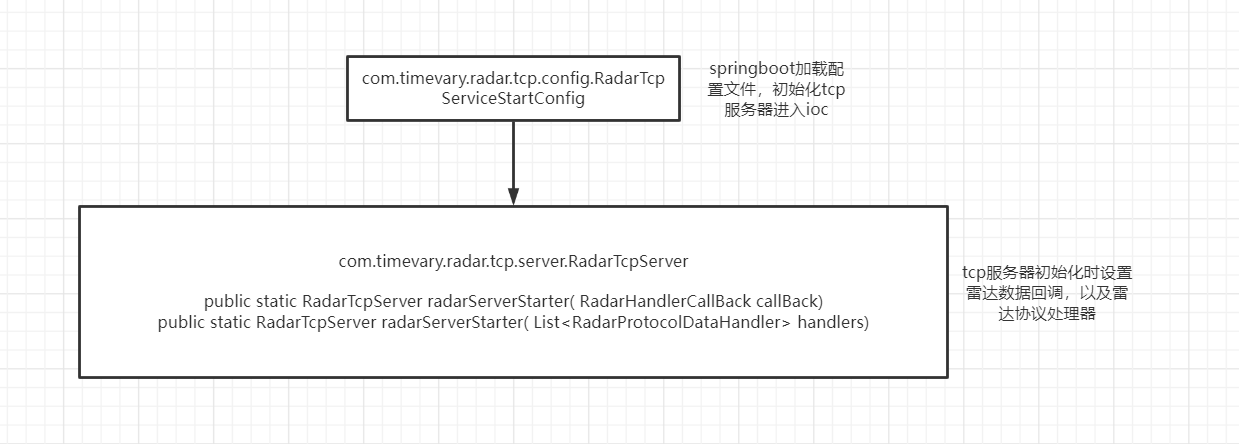
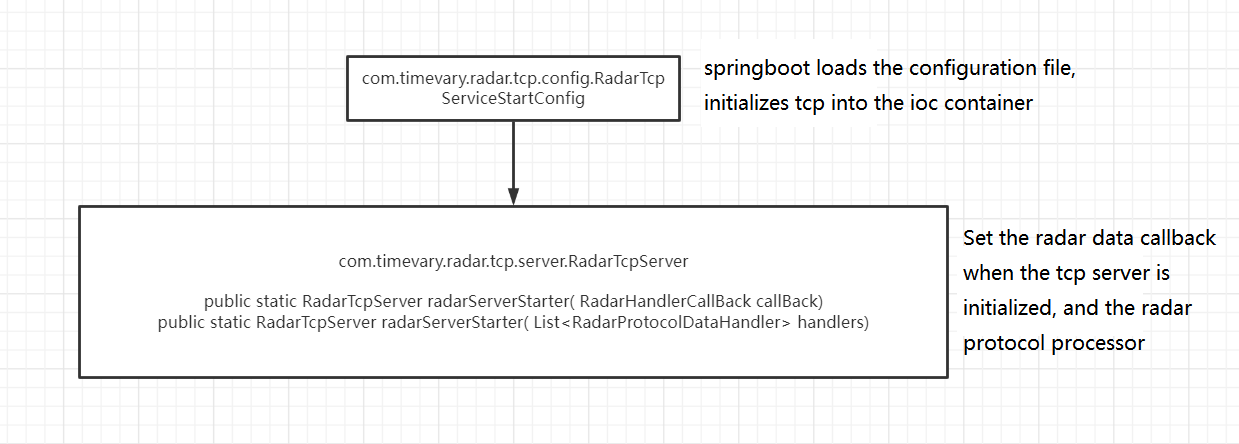
update doc en

diff --git a/src/main/java/com/timevary/radar/tcp/service/fromRadar/callback/RadarReportOrAlertCallBack.java b/src/main/java/com/timevary/radar/tcp/service/fromRadar/callback/RadarReportOrAlertCallBack.java
@@ -66,7 +66,6 @@ public class RadarReportOrAlertCallBack implements RadarHandlerCallBack {
             } finally {
                 byteBuf.release();
             }
-
             radarHandlerCallBackForConsumer.callBack(callBackDto);
         } else {
             throw new RuntimeException("No custom callback");

diff --git a/src/main/java/com/timevary/radar/tcp/domain/dto/CallBackDto.java b/src/main/java/com/timevary/radar/tcp/domain/dto/CallBackDto.java
@@ -5,7 +5,7 @@ import lombok.AllArgsConstructor;
 import lombok.Data;
 import lombok.NoArgsConstructor;
 
-/**
+/**=
  * @author ：ywb
  * @date ：Created in 2022/12/6 9:18
  * @modified By：

diff --git a/sdk-document-en/sdk-document-en.md b/sdk-document-en/sdk-document-en.md
@@ -1,293 +1,40 @@
-## 一，schema analysis 
+## Ⅰ， quick start
 
-### 1， sdk startup flowchart
-
-https://www.processon.com/diagraming/6290877c5653bb788c7a3617
-
-![](img/image-20220527162121324.png)
-
-### 2，Radar server interaction flow chart
-
-https://www.processon.com/diagraming/6290877c5653bb788c7a3617
-
-![](img/image-20220527163137967.png)
-
-```java
-
-/**
- * @author ：ywb
- * @date ：Created in 2022/1/7 10:35
- * @modified By：
- * Breathing low bpm alarm
- * When the radar actively alarms,it will call the corresponding protocol processor, and then call the radar
- */
-@Service
-public class BreathLowBpmHandler extends AbstractFromRadarProtocolDataHandler {
-
-    public BreathLowBpmHandler(RadarHandlerCallBack handlerCallBack) {
-        super(handlerCallBack);
-    }
-
-    @Override
-    public Object process(RadarProtocolData protocolData) {
-        //process data, no need to return
-        protocolData.setFunction(FunctionEnum.breathLowBpmAlert);
-        handlerCallBack.callBack(protocolData);
-        return null;
-    }
-
-    @Override
-    public Set<FunctionEnum> interests() {
-        return Sets.newHashSet(FunctionEnum.breathLowBpmAlert);
-    }
-}
+### 1，prepare sdk
 
 ```
-
-																										Figure 1
-
-```java
-
-/**
- * @author ：ywb
- * @date ：Created in 2022/1/7 11:03
- * @modified By：
- * Radar built-in callback class
- * Users need to customize the callback implementation RadarHandlerCallBackForConsumer plus 
- */
-@Service
-@Slf4j
-public class RadarReportOrAlertCallBack implements RadarHandlerCallBack {
-
-    @Autowired(required = false)
-    RadarHandlerCallBackForConsumer radarHandlerCallBackForConsumer;
-
-    @Override
-    public void callBack(RadarProtocolData radarProtocolData) {
-        if (radarHandlerCallBackForConsumer != null) {
-            radarHandlerCallBackForConsumer.callBack(radarProtocolData);
-        } else {
-            throw new RuntimeException("No custom callback");
-        }
-    }
-}
-
+git clone https://github.com/AeroSenseSw/AeroSenseWavve.git
+open in idea , change maven config
+maven clean 
+maven install 
 ```
 
-																												Figure 2
-
-![](img/image-20220527163756431.png)
-
-```java
-
-/**
- * @author ：ywb
- * @date ：Created in 2022/1/8 17:54
- * @modified By：
- * Get breathing BPM high threshold alarm, the server sends a command to the radar to get the result
- */
-@Service
-public class GetBreathBpmHeightThreshold extends AbstractToRadarProtocolDataHandler {
-
-    public Integer process(String radarId) throws Exception {
-        //Send command to radar and return result
-        ByteBuf byteBuf = super.processDo(radarId, FunctionEnum.getBreathBpmHeightThreshold);
-        //Read the relevant data according to the radar protocol
-        int readInt = byteBuf.readInt();
-        byteBuf.release();
-        return readInt;
-    }
-
-}
+### 2, import sdk
 
 ```
-
-																												图3
-
-
-
-```java
-
-/**
- * @author ：ywb
- * @date ：Created in 2022/1/7 11:30
- * @modified By：
- * To set the radar parameters, the user injects SetRadarParams and calls 
- * process(GetSetRadarParamVogetRadarParamVo)
- * Time out, or retry 5 times if it fails
- */
-@Service
-@Slf4j
-public class SetRadarParams extends AbstractToRadarProtocolDataHandler {
-    @Autowired
-    private RadarTcpServer radarTcpServer;
-
-    public ResponseResult process(GetSetRadarParamVo getRadarParamVo) {
-        log.debug("set function {}", getRadarParamVo);
-        ResponseResult check = RadarCheck.check(getRadarParamVo, radarTcpServer);
-        if (check != null) {
-            return check;
-        }
-        try {
-            return doSet(getRadarParamVo);
-        } catch (Exception e) {
-            //may time out
-            for (int i = 0; i < 5; i++) {
-                try {
-                    return doSet(getRadarParamVo);
-                } catch (RemotingException | InterruptedException ex) {
-                    log.error("Set timeout: {}, retrying...", getRadarParamVo.getCode());
-                }
-            }
-        }
-        return new ResponseResult(ResponseCode.SERVER_ERROR);
-    }
-   .......
-}
-
+create your radar_server
+import sdk from your local maven 
 ```
 
-																											图4
-
-
-
-## 二， quick start
-
-### 1，import sdk
-
-```
-clone mavve-radar-tcp-spring-boot-starter   git clone sdk
-idea open sdk ， configure maven ， install ，introduce maven in your own project ， 
-scan com.timevary in startup class
-```
-
-																							Put the sdk on maven coordinates
-
-![image-20220527164620739](img/image-20220527164620739.png)
-
-																								     import sdk
-
-![](img/image-20220527164650227.png)
-
-																									Startup class scan package
-
-![image-20220527164747899](img/img_20220620161558.png)
-
-
+![image-20220527170025692](../imgs/import_sdk.png)
 
 ## 三，Startup class scan package
 
-### 1，actively send data to radar（get）
+### 1，actively send data to radar（get radar settings）
 
-![image-20220527170025692](img/image-20220527170025692.png)
+![image-20220527170025692](../imgs/get.png)
+
+### 2， actively send data to radar（set radar settings）
+
+	![image-20220527170643920](../imgs/set.png)
 
 ```
 For more protocol handlers please see the com.timevary.radar.tcp.service.toRadar package
 ```
 
-### 2， actively send data to radar（set）
-
-	![image-20220527170643920](img/image-20220527170643920.png)
 
 
+### 3，radar report 
 
-### 3，radar sent to server
-
-The user-defined callback handler is as follows
-
-```java
-@Service
-@Slf4j
-public class RadarReportOrAlertCallBackConsumer implements RadarHandlerCallBackForConsumer {
-    @Override
-    public void callBack(RadarProtocolData radarProtocolData) {
-        switch (radarProtocolData.getFunction()) {
-            case createConnection:
-                log.info("radar {} connected", radarProtocolData.getRadarId());
-                return;
-            case radarReport:
-                ByteBuf byteBuf = PooledByteBufAllocator.DEFAULT.heapBuffer();
-                try {
-                    byteBuf.writeBytes(radarProtocolData.getData());
-                    float breathBpm = byteBuf.readFloat();
-                    float breathLine = byteBuf.readFloat();
-                    float heartBpm = byteBuf.readFloat();
-                    float heartLine = byteBuf.readFloat();
-                    float target = byteBuf.readFloat();
-                    float signalIntensity = byteBuf.readFloat();
-                    log.info("breathBpm:{}", breathBpm);
-                    log.info("breathLine:{}", breathLine);
-                    log.info("heartBpm:{}", heartBpm);
-                    log.info("heartLine:{}", heartLine);
-                    log.info("target:{}", target);
-                    log.info("signalIntensity:{}", signalIntensity);
-                    break;
-               } finally {
-                    byteBuf.release();
-               }
-		    case liveBedNoBack:
-				log.info("Out of bed and not returning");
-				break;
-			case longTimeNoTurnOver:
-				log.info("The user hasn't turned over for a long time");
-				break;
-			case respiratory Arrest:
-                log.info("respiratory arrest");
-                break;
-			case breathLowBpmAlert:
-                log.info("below respiratory BPM high threshold");
-                break;
-			case breathHeightBpmAlert:
-                log.info("Above respiratory BPM low threshold");
-                break;
-			case cardiacArrest:
-                log.info("Sudden Cardiac Arrest");
-                break;
-			case heartRateLowBpm:
-                log.info("Below heart rate BPM low threshold");
-                break;
-			case heartRateHeightBpm:
-                log.info("Above heart rate BPM high threshold");
-                break;
-			case rollOverOrSitAndCallThePolice:
-                byte[] data = radarProtocolData.getData();
-                ByteBuf buffer = PooledByteBufAllocator.DEFAULT.buffer();
-                try {
-						buffer.writeBytes(data);
-						//0: Turn over to alarm, 1: Sitting and standing alarm
-                        int ints = buffer.readInt();
-                        if (ints == 0) {
-                            log.info("Turn over to alarm");
-                        } else {
-                            log.info("Sit and Stand Alarm");
-                        }
-					} finally {
-						buffer.release();
-					}
-				break;
-			case physicalActivityReportStatistics:
-                //A body movement report statistics, report the cumulative movement energy
-                byte[] data1 = radarProtocolData.getData();
-                ByteBuf buffer1 = PooledByteBufAllocator.DEFAULT.buffer();
-                try {
-                    buffer1.writeBytes(data1);
-                    //The signal strength of the current body movement
-                    float readFloat = buffer1.readFloat();
-                    log.info("A body movement report statistics, report the cumulative movement energy");
-                } finally {
-                	buffer1.release();
-                }
-                break;
-			default:
-				log.error("Strange radar report, {}", radarProtocolData);
-		}
-	}
-}
-```
-
-
-
-## 四，custom protocol processor
-
-### 1，no, because each protocol can only have one processor, so there cannot be multiple
+![image-20220527170643920](../imgs/report.png)
 
